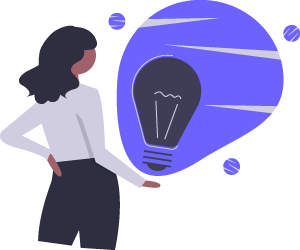
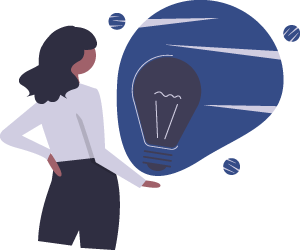
Change color scheme

Changed region(s): [[0.36, 0.0, 1.0, 0.728], [0.72, 0.616, 0.81, 0.7], [0.36, 0.056, 0.42, 0.14]]

diff --git a/website/src/css/custom.css b/website/src/css/custom.css
@@ -1,14 +1,19 @@
 :root {
-  --ifm-color-primary: #4b5ff7;
-  --ifm-color-primary-dark: #2c44f6;
-  --ifm-color-primary-darker: #1d36f5;
-  --ifm-color-primary-darkest: #0a22d8;
-  --ifm-color-primary-light: #6a7af8;
-  --ifm-color-primary-lighter: #7988f9;
-  --ifm-color-primary-lightest: #a7b1fb;
+  --ifm-color-primary: #354c87;
+  --ifm-color-primary-dark: #30447a;
+  --ifm-color-primary-darker: #2d4173;
+  --ifm-color-primary-darkest: #25355f;
+  --ifm-color-primary-light: #3a5495;
+  --ifm-color-primary-lighter: #3d579b;
+  --ifm-color-primary-lightest: #4563b0;
 
-  --ifm-color-secondary: #bfc7d5;
+  --ifm-color-secondary: #f8f8f8;
+  --ifm-color-accent: #628079;
   --ifm-footer-link-hover-color: #fff;
+}
+
+.footer--dark {
+  --ifm-footer-background-color: var(--ifm-color-accent);
 }
 
 a {
@@ -136,7 +141,7 @@ button {
 }
 
 .footer .text--center div:not(.margin-bottom--sm) {
-  color: #bfc7d5;
+  color: var(--ifm-color-secondary);
 }
 
 .footer .footer__link-item:hover {
@@ -245,7 +250,7 @@ body:not(.separateOnPageNav) .mainContainer.enterprise {
 }
 
 #main-nav .links a:hover {
-  color: #4b5ff7;
+  color: var(--ifm-color-primary);
   text-decoration: none;
 }
 
@@ -300,10 +305,6 @@ body:not(.separateOnPageNav) .mainContainer.enterprise {
   margin-top: 20px;
   border-radius: 35px;
   box-sizing: border-box;
-  /* box-shadow: 0 14px 44px 0 rgba(75, 95, 247, 0.29); */
-  /* background-color: #4b5ff7;
-  border: 2px solid #4b5ff7;
-  color: #fff; */
   font-size: 14px;
   font-weight: 700;
   line-height: normal;
@@ -313,15 +314,15 @@ body:not(.separateOnPageNav) .mainContainer.enterprise {
 }
 
 .main-button {
-  background-color: #4b5ff7;
-  border: 2px solid #4b5ff7;
+  background-color: var(--ifm-color-primary);
+  border: 2px solid var(--ifm-color-primary);
   color: #fff;
 }
 
 .main-button:hover {
   background-color: transparent;
-  border-color: #4b5ff7;
-  color: #4b5ff7;
+  border-color: var(--ifm-color-primary);
+  color: var(--ifm-color-primary);
 }
 
 #main-highlights {

diff --git a/website/src/components/diff/change.module.css b/website/src/components/diff/change.module.css
@@ -8,7 +8,7 @@
   box-shadow: 0 25px 68px 0 rgba(0, 0, 0, 0.02);
   border-left-width: 3px;
   border-left-style: solid;
-  background-color: #4b5ff7;
+  background-color: #354c87;
   color: #fff;
   border-radius: 5px;
 }

diff --git a/website/src/components/contact.module.css b/website/src/components/contact.module.css
@@ -55,7 +55,7 @@
 }
 
 .contactStatus.success {
-  color: #4b5ff7;
+  color: #354c87;
 }
 
 .contactStatus.error {

diff --git a/website/src/pages/enterprise.module.css b/website/src/pages/enterprise.module.css
@@ -1,5 +1,5 @@
 .enterpriseIcon {
-  color: #4b5ff7;
+  color: #354c87;
 }
 
 .enterpriseList {
